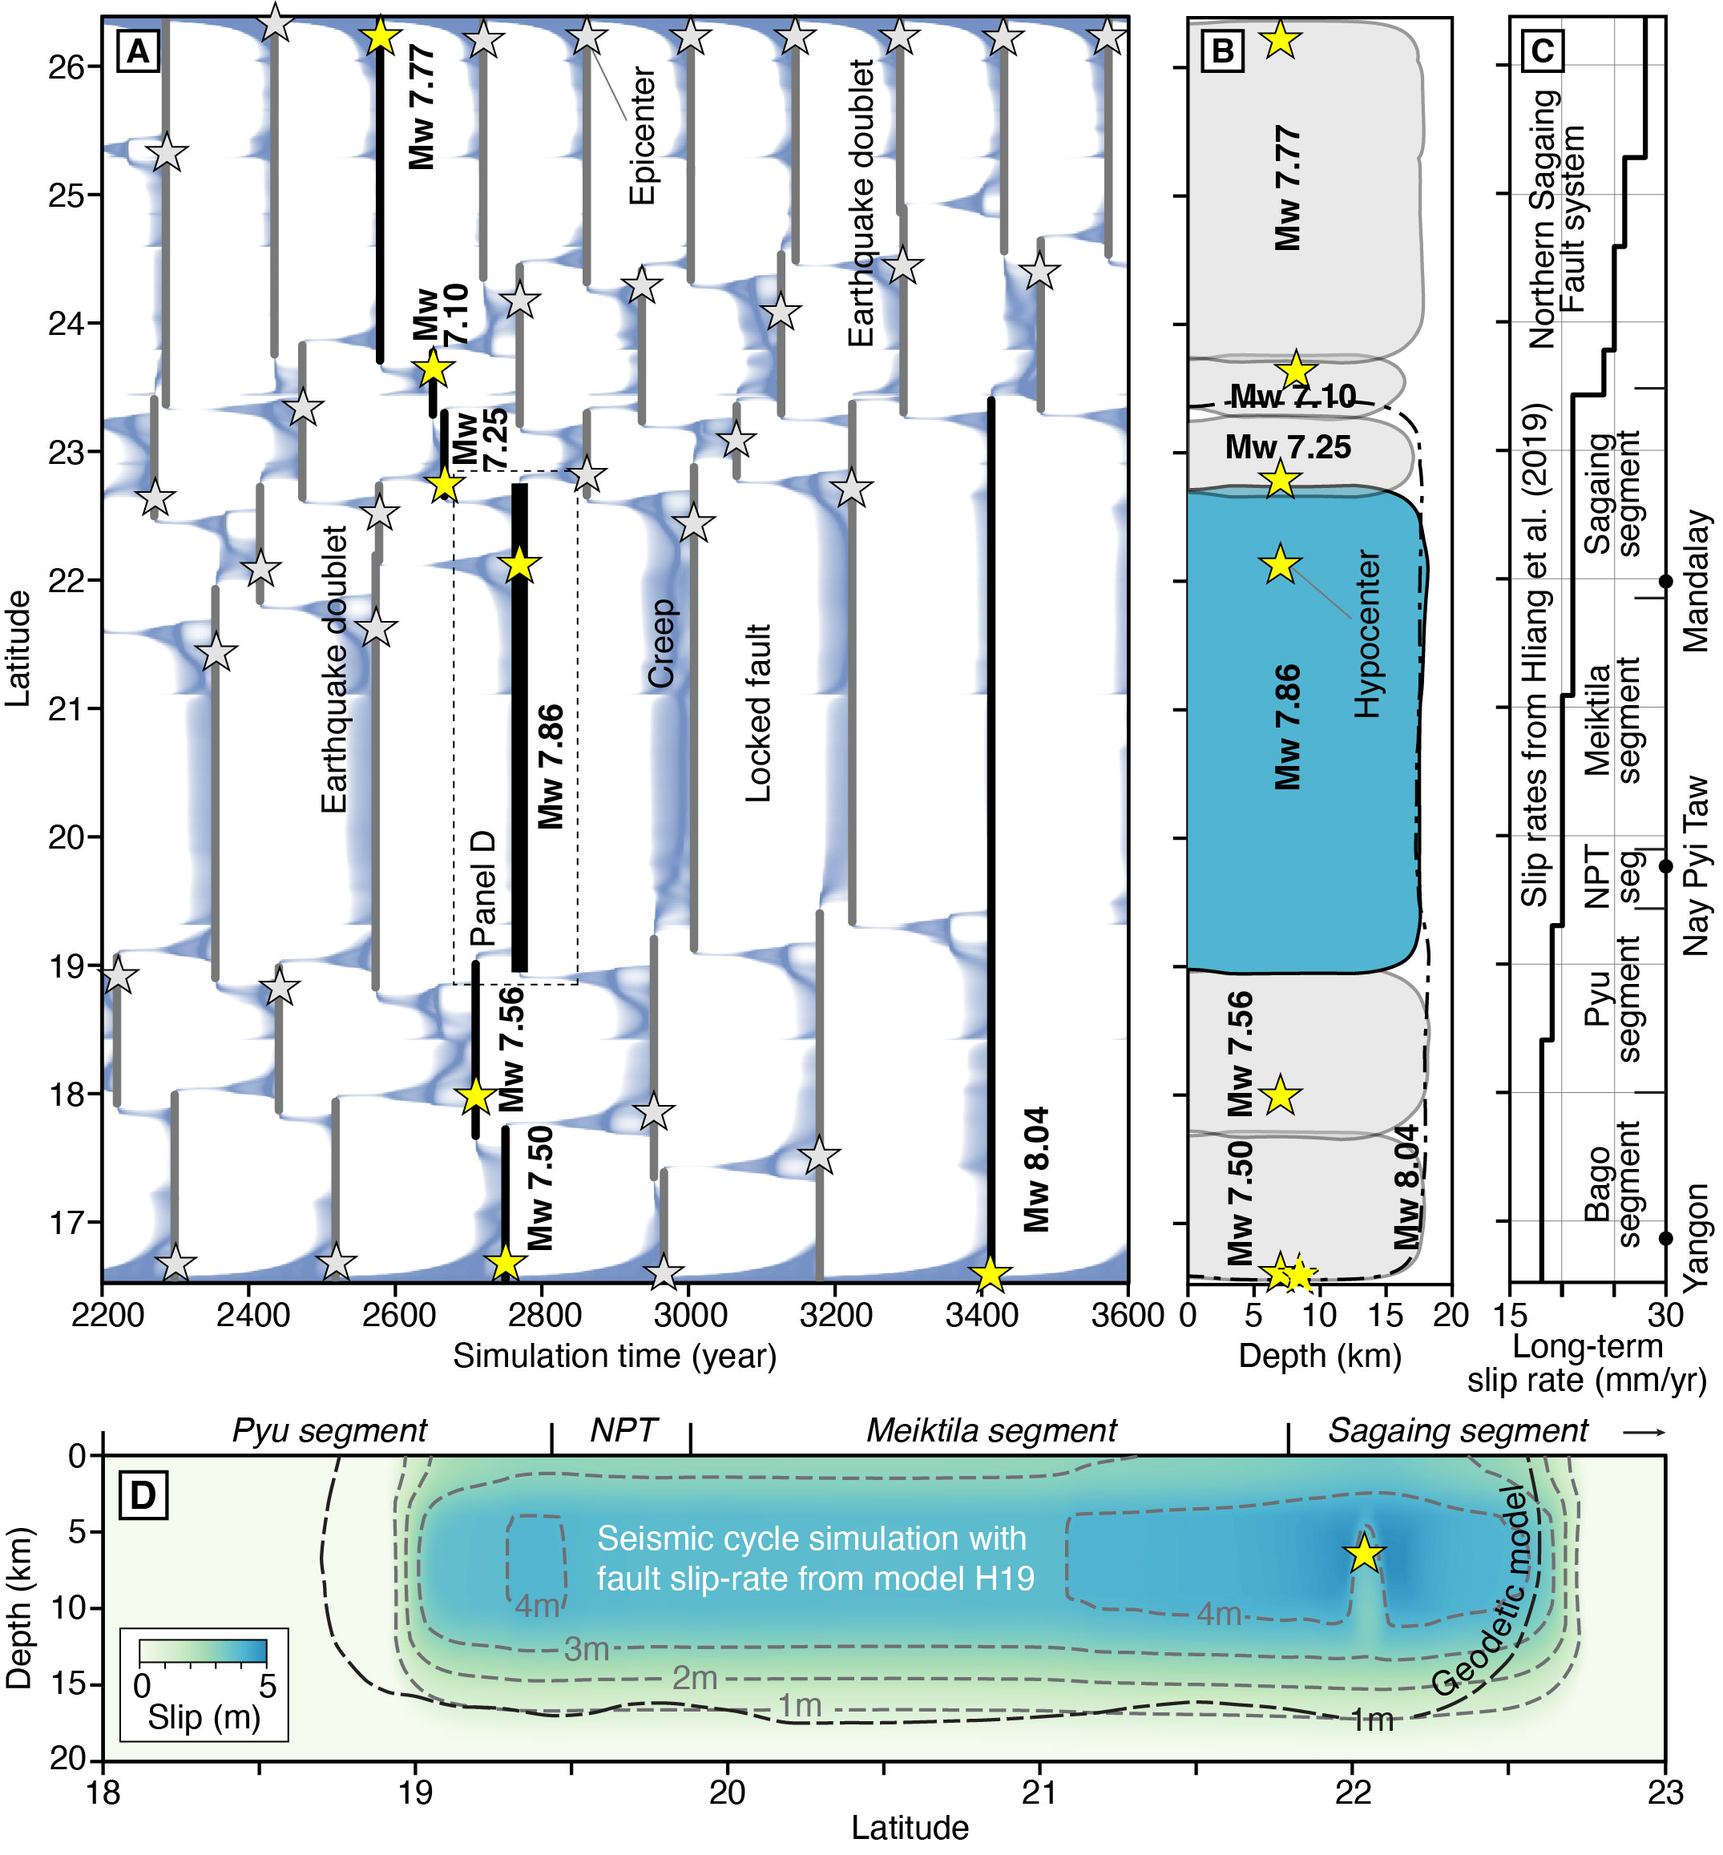
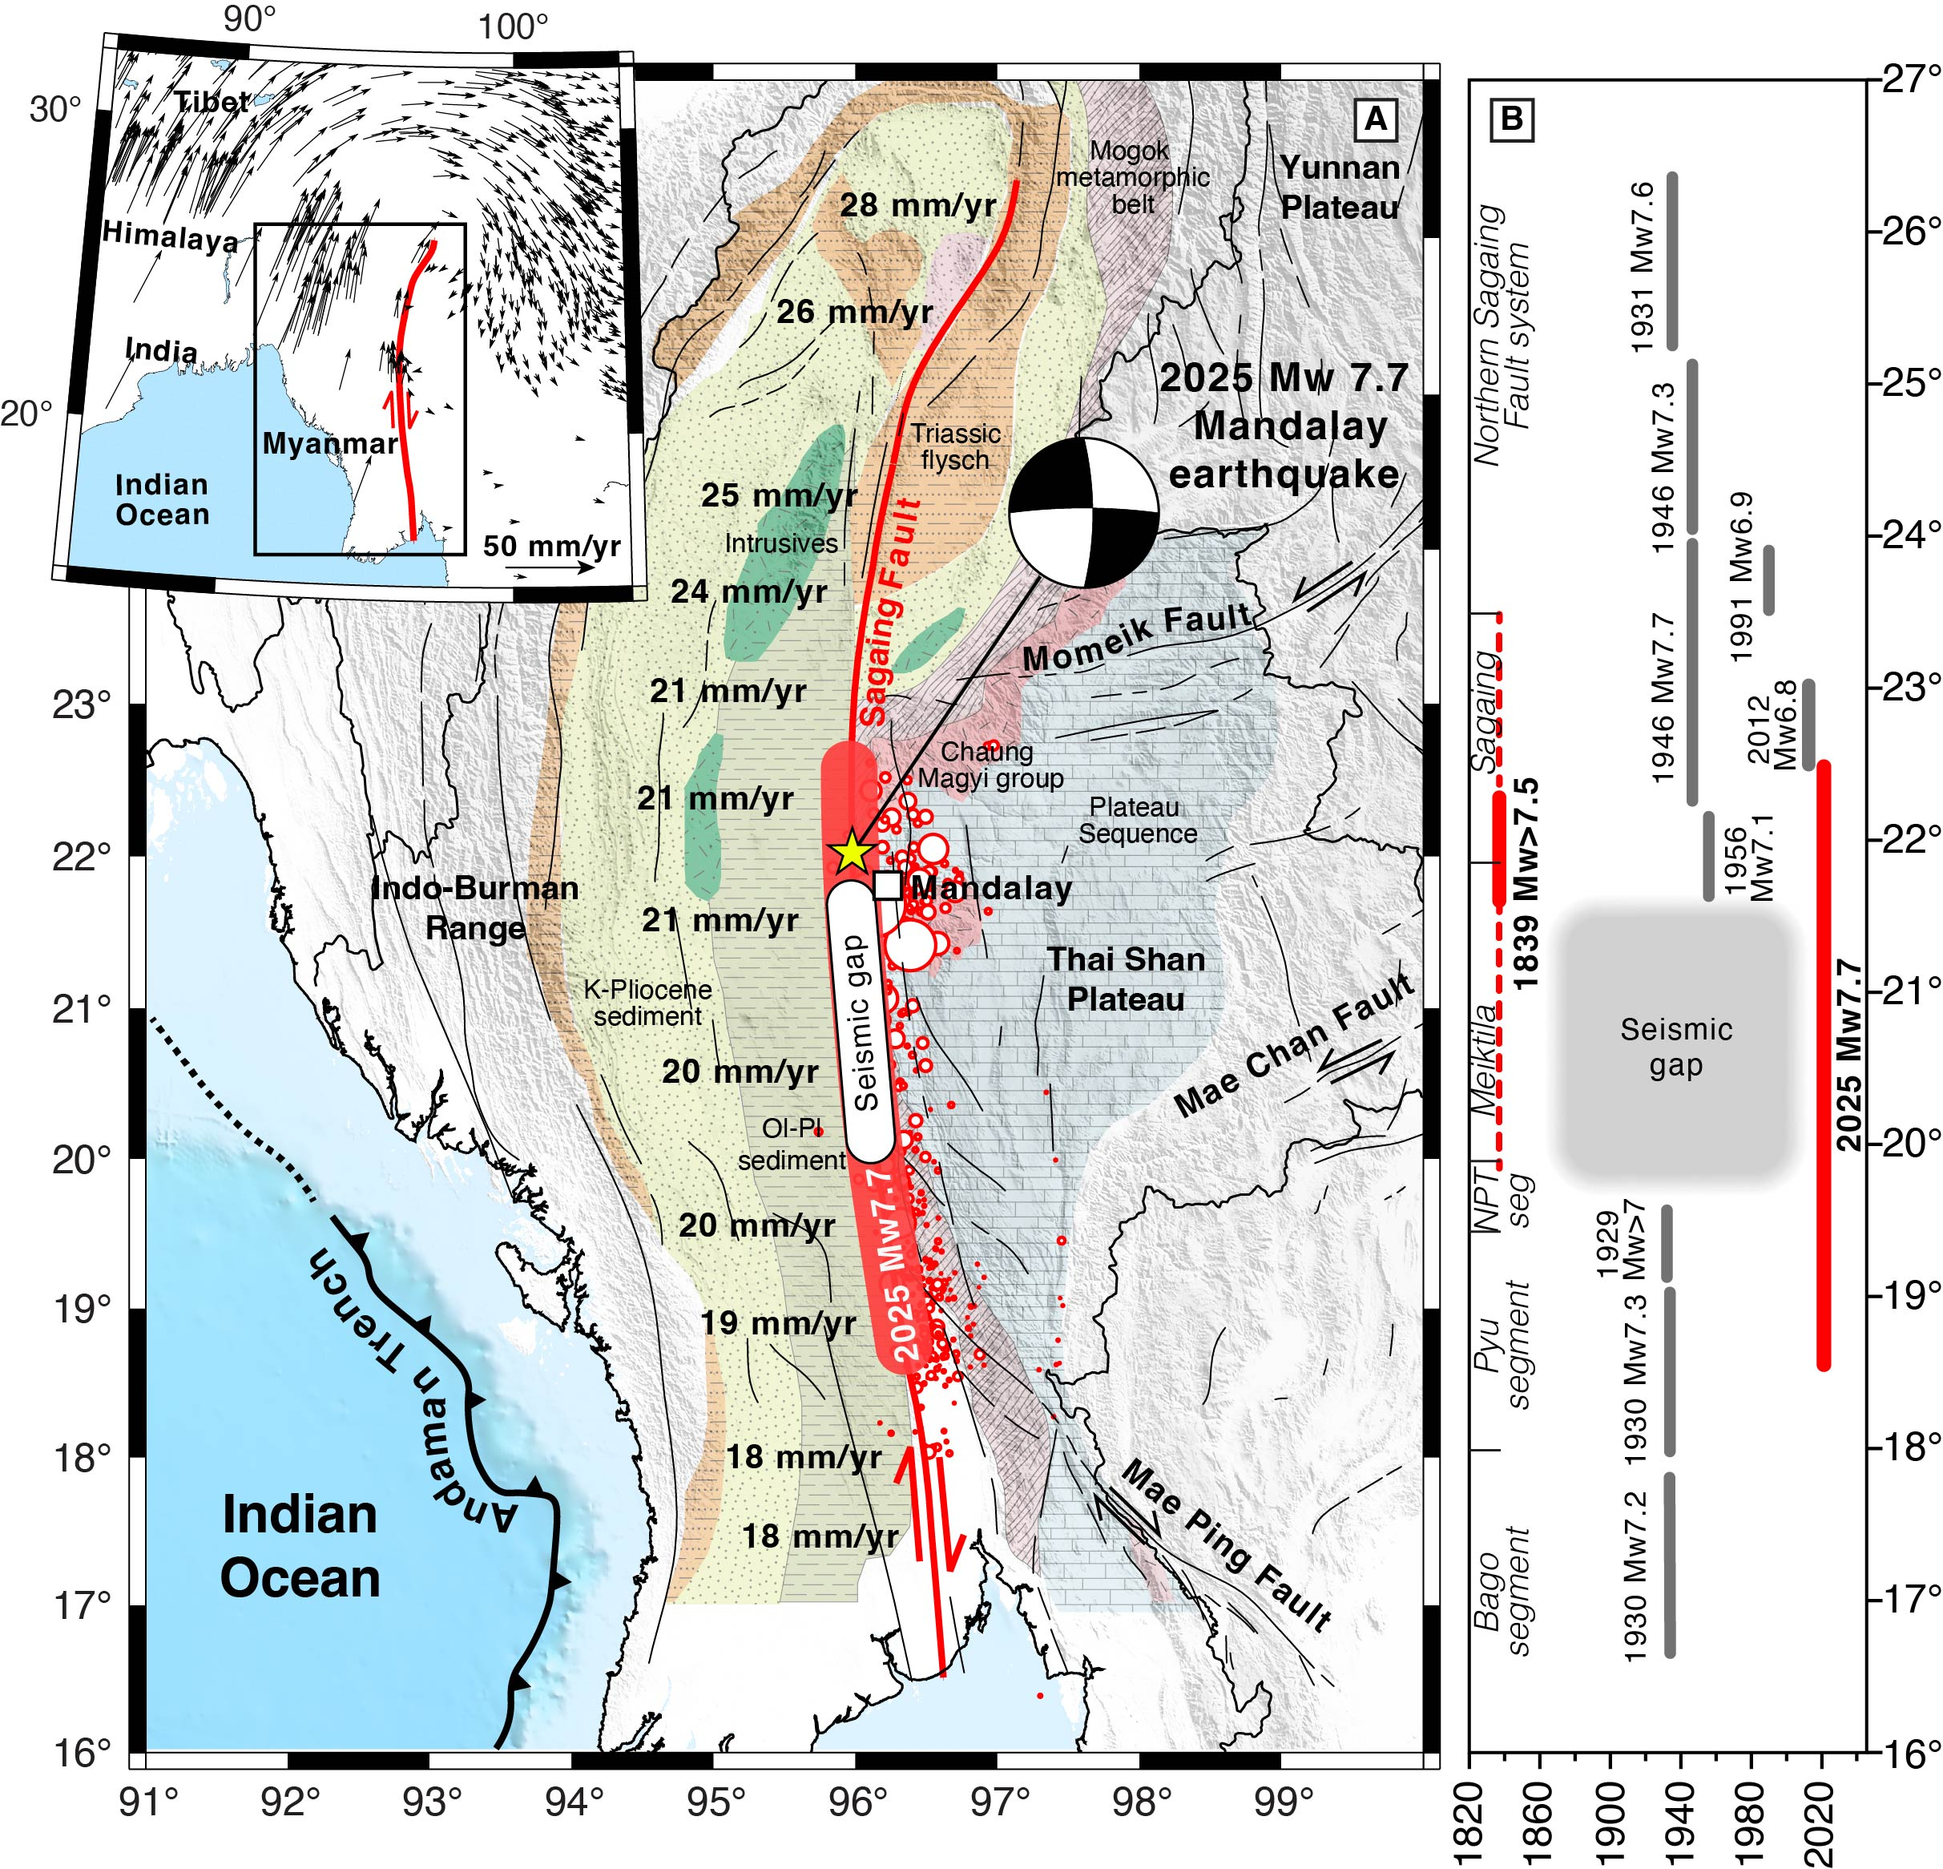
New paper

diff --git a/_site/publications/index.html b/_site/publications/index.html
@@ -206,7 +206,6 @@
 
   <div class="publications">
     <ul class="prep-list">
-      <li><span class="author-highlight">Liu, M.</span>, Wang B., Guvercin S., Li Z., Wang T., Liu C., Ji L., Babrot S. (2026). Dynamic segmentation of the Sagaing fault. In press.</li>
       <li><span class="author-highlight">Liu, M.</span>, Wang, B., Wu, B., Guvercin, S., Zhang, L., Yang, Z., Seyler, C., Platt, J., Barbot, S. A rock-centric framework for earthquake dynamics and seismic hazards.</li>
       <li>Chen, Y., Chen, H*., <span class="author-highlight">Liu, M.*</span>, Gerya, T*., An, K., Lin, X., Yang, H., Shi, X. Grain size reduction-induced ductile weakening controls the evolution of vertical slab tearing.</li>
       <li>Journeau, C., Thomas, A., Abercrombie, R., Hirao, B., <span class="author-highlight">Liu, M.</span>, Kuna, V. OBS Data Mining Reveals Seismic Structure and Dynamics of the oceanic Blanco Transform Fault, Northeast Pacific.</li>
@@ -223,6 +222,22 @@
   <div class="publications">
     <ol class="bibliography">
 
+
+<li>
+  <div class="pub-row">
+    <div class="col-sm-3 abbr" style="position: relative; padding-right: 15px; padding-left: 15px;">
+      
+      <img src="../assets/teaser/Liu_2026_SCI.jpg" class="teaser img-fluid z-depth-1 zoomable" style="width=100;height=40%; object-fit: cover; cursor: pointer; border-radius: 5px;" onclick="openModal('../assets/teaser/Liu_2026_SCI.jpg')" />
+      
+      <abbr class="badge">Science</abbr>
+    </div>
+    <div class="col-sm-9" style="position: relative; padding-right: 15px; padding-left: 20px;">
+      <div class="title"><a href="https://science.org/doi/10.1126/science.ady3237" target="_blank">Dynamic segmentation of the Sagaing fault</a></div>
+      <div class="author"><span class="author-highlight">Liu, M.</span>, Wang B., Guvercin S., Li Z., Wang T., Liu C., Ji L., Babrot S.</div>
+      <div class="periodical"><em>Science, 2026</em></div>
+    </div>
+  </div>
+</li>
 
 
 
@@ -402,9 +417,10 @@
 
   <div class="publications">
     <ol class="pub-plain-list">
+      <li><span class="author-highlight">Liu, M.</span>, Wang B., Guvercin S., Li Z., Wang T., Liu C., Ji L., Babrot S. (2026). Dynamic segmentation of the Sagaing fault. <em>Science</em>. DOI: 10.1126/science.ady3237</li>
       <li><span class="author-highlight">Liu, M.</span>, Gerya, T. V., Li, Z. H., Chen, L., &amp; Connolly, J. A. (2026). Deciphering grain-size reduction as a driver of mid-lithosphere discontinuity formation. <em>Science Advances</em>, 12(17), eaed4229.</li>
       <li><span class="author-highlight">Liu, M.</span>, Barbot, S. (2026). Role of hydrothermal alteration and thermally activated healing on earthquake dynamics along oceanic transform faults. <em>Earth and Planetary Science Letters</em>, 675, 119765.</li>
-      <li>Zhang, H., Batbot, S., Yang, Z., <span class="author-highlight">Liu, M.</span>, Zhang, L., Platt, J. (2026). Large megathrust earthquakes in cold mantle wedge corners under lawsonite blueschist facies. <em>Nature Communications</em>. DOI: 10.1038/s41467-026-70315-4</li>
+      <li>Zhang, H., Batbot, S., Yang, Z., <span class="author-highlight">Liu, M.</span>, Zhang, L., Platt, J. (2026). Large megathrust earthquakes in cold mantle wedge corners under lawsonite blueschist facies. <em>Nature Communications</em>, 17, 4007. DOI: 10.1038/s41467-026-70315-4</li>
       <li><span class="author-highlight">Liu, M.</span>, Gerya, T., &amp; Rozel, A. (2025). The effect of brittle-ductile weakening on the formation of faulting patterns at mid-ocean ridges. <em>Tectonics</em>, 44(2), e2024TC008586.</li>
       <li>Chen, Y., Chen, H.*, <span class="author-highlight">Liu, M.*</span>, Gerya, T*. (2023). Vertical tearing of subducting plates controlled by geometry and rheology of oceanic plates. <em>Nature Communications</em>, 14(1), 7931. (Corresponding author).</li>
       <li><span class="author-highlight">Liu, M.</span>, Gerya, T. (2023). Forced subduction initiation near spreading centers: Effects of brittle-ductile damage. <em>Journal of Geophysical Research: Solid Earth</em>, 128(2), e2022JB024701.</li>

diff --git a/_site/index.html b/_site/index.html
@@ -207,6 +207,24 @@
     <article class="timeline-item">
       <div class="timeline-date">May 2026</div>
       <div class="timeline-body">
+        <strong>New paper in <em>Science</em></strong>
+        <p>
+          <a href="https://www.science.org/doi/10.1126/science.ady3237" rel="noopener" target="_blank">
+            Dynamic segmentation of the Sagaing fault
+          </a>
+        </p>
+        <p>
+          Reported by USC Dornsife News:
+          <a href="https://dornsife.usc.edu/news/stories/myanmar-earthquake-reveals-clues-about-future-quake-risk/" rel="noopener" target="_blank">
+            What a devastating earthquake revealed about future quake risk
+          </a>
+        </p>
+      </div>
+    </article>
+
+    <article class="timeline-item">
+      <div class="timeline-date">May 2026</div>
+      <div class="timeline-body">
         <strong>New journey in Paris</strong>
         <p>
           I am starting a new position at the <a href="https://www.geologie.ens.fr/en/geology-laboratory/" rel="noopener" target="_blank">Laboratoire de Géologie</a> de l'<a href="https://www.ens.psl.eu/" rel="noopener" target="_blank">École Normale Supérieure - PSL</a>, focusing on seismicity at mid-ocean ridges.

diff --git a/_includes/publications.md b/_includes/publications.md
@@ -6,7 +6,6 @@
 
   <div class="publications">
     <ul class="prep-list">
-      <li><span class="author-highlight">Liu, M.</span>, Wang B., Guvercin S., Li Z., Wang T., Liu C., Ji L., Babrot S. (2026). Dynamic segmentation of the Sagaing fault. In press.</li>
       <li><span class="author-highlight">Liu, M.</span>, Wang, B., Wu, B., Guvercin, S., Zhang, L., Yang, Z., Seyler, C., Platt, J., Barbot, S. A rock-centric framework for earthquake dynamics and seismic hazards.</li>
       <li>Chen, Y., Chen, H*., <span class="author-highlight">Liu, M.*</span>, Gerya, T*., An, K., Lin, X., Yang, H., Shi, X. Grain size reduction-induced ductile weakening controls the evolution of vertical slab tearing.</li>
       <li>Journeau, C., Thomas, A., Abercrombie, R., Hirao, B., <span class="author-highlight">Liu, M.</span>, Kuna, V. OBS Data Mining Reveals Seismic Structure and Dynamics of the oceanic Blanco Transform Fault, Northeast Pacific.</li>
@@ -60,9 +59,10 @@
 
   <div class="publications">
     <ol class="pub-plain-list">
+      <li><span class="author-highlight">Liu, M.</span>, Wang B., Guvercin S., Li Z., Wang T., Liu C., Ji L., Babrot S. (2026). Dynamic segmentation of the Sagaing fault. <em>Science</em>. DOI: 10.1126/science.ady3237</li>
       <li><span class="author-highlight">Liu, M.</span>, Gerya, T. V., Li, Z. H., Chen, L., &amp; Connolly, J. A. (2026). Deciphering grain-size reduction as a driver of mid-lithosphere discontinuity formation. <em>Science Advances</em>, 12(17), eaed4229.</li>
       <li><span class="author-highlight">Liu, M.</span>, Barbot, S. (2026). Role of hydrothermal alteration and thermally activated healing on earthquake dynamics along oceanic transform faults. <em>Earth and Planetary Science Letters</em>, 675, 119765.</li>
-      <li>Zhang, H., Batbot, S., Yang, Z., <span class="author-highlight">Liu, M.</span>, Zhang, L., Platt, J. (2026). Large megathrust earthquakes in cold mantle wedge corners under lawsonite blueschist facies. <em>Nature Communications</em>. DOI: 10.1038/s41467-026-70315-4</li>
+      <li>Zhang, H., Batbot, S., Yang, Z., <span class="author-highlight">Liu, M.</span>, Zhang, L., Platt, J. (2026). Large megathrust earthquakes in cold mantle wedge corners under lawsonite blueschist facies. <em>Nature Communications</em>, 17, 4007. DOI: 10.1038/s41467-026-70315-4</li>
       <li><span class="author-highlight">Liu, M.</span>, Gerya, T., &amp; Rozel, A. (2025). The effect of brittle-ductile weakening on the formation of faulting patterns at mid-ocean ridges. <em>Tectonics</em>, 44(2), e2024TC008586.</li>
       <li>Chen, Y., Chen, H.*, <span class="author-highlight">Liu, M.*</span>, Gerya, T*. (2023). Vertical tearing of subducting plates controlled by geometry and rheology of oceanic plates. <em>Nature Communications</em>, 14(1), 7931. (Corresponding author).</li>
       <li><span class="author-highlight">Liu, M.</span>, Gerya, T. (2023). Forced subduction initiation near spreading centers: Effects of brittle-ductile damage. <em>Journal of Geophysical Research: Solid Earth</em>, 128(2), e2022JB024701.</li>

diff --git a/_includes/news.md b/_includes/news.md
@@ -8,6 +8,24 @@
     <article class="timeline-item">
       <div class="timeline-date">May 2026</div>
       <div class="timeline-body">
+        <strong>New paper in <em>Science</em></strong>
+        <p>
+          <a href="https://www.science.org/doi/10.1126/science.ady3237" rel="noopener" target="_blank">
+            Dynamic segmentation of the Sagaing fault
+          </a>
+        </p>
+        <p>
+          Reported by USC Dornsife News:
+          <a href="https://dornsife.usc.edu/news/stories/myanmar-earthquake-reveals-clues-about-future-quake-risk/" rel="noopener" target="_blank">
+            What a devastating earthquake revealed about future quake risk
+          </a>
+        </p>
+      </div>
+    </article>
+
+    <article class="timeline-item">
+      <div class="timeline-date">May 2026</div>
+      <div class="timeline-body">
         <strong>New journey in Paris</strong>
         <p>
           I am starting a new position at the <a href="https://www.geologie.ens.fr/en/geology-laboratory/" rel="noopener" target="_blank">Laboratoire de Géologie</a> de l'<a href="https://www.ens.psl.eu/" rel="noopener" target="_blank">École Normale Supérieure - PSL</a>, focusing on seismicity at mid-ocean ridges.
